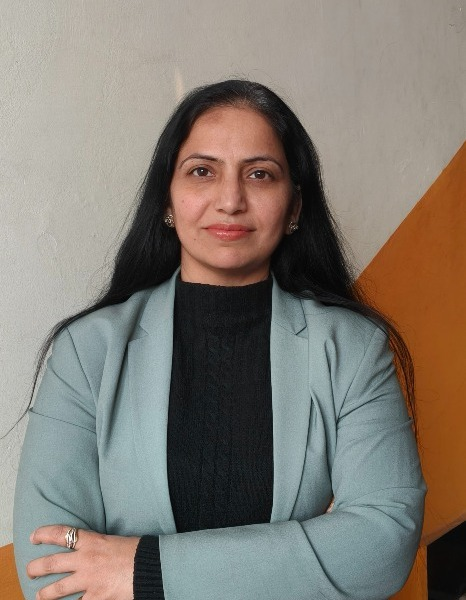
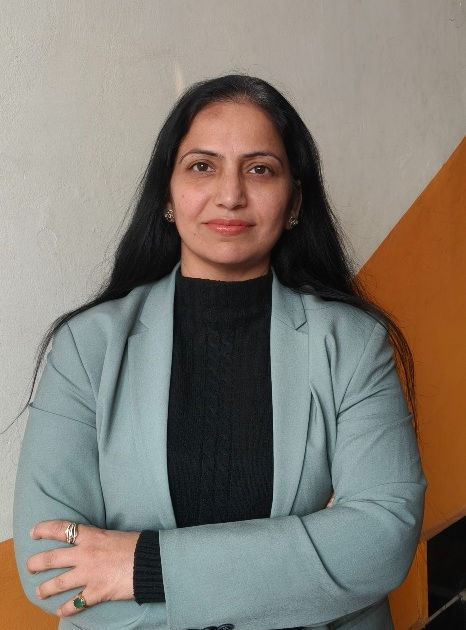
feat(contact): simplify header to clean title and display high-res portrait mentor cards with mentorship focus

diff --git a/components/mentors/MentorCard.tsx b/components/mentors/MentorCard.tsx
@@ -10,25 +10,27 @@ interface MentorCardProps {
 
 export function MentorCard({ mentor }: MentorCardProps) {
   return (
-    <article className="group bg-white rounded-3xl border border-[#EDE7EE] overflow-hidden flex flex-col h-full shadow-xs hover:shadow-xl hover:shadow-[rgba(155,112,199,0.12)] hover:border-[#C9A5E8]/60 transition-all duration-300 hover:-translate-y-1">
-      {/* Compact Image Container */}
-      <div className="relative h-48 sm:h-52 w-full overflow-hidden bg-[#FCF8FB]">
+    <article className="group bg-white rounded-3xl border border-[#EDE7EE] overflow-hidden flex flex-col h-full shadow-sm hover:shadow-xl hover:shadow-[rgba(155,112,199,0.14)] hover:border-[#C9A5E8]/70 transition-all duration-300 hover:-translate-y-1">
+      {/* Prominent Portrait Image Container — Matching High-Quality Editorial Style */}
+      <div className="relative aspect-[4/5] w-full overflow-hidden bg-[#FCF8FB]">
         <Image
           src={mentor.image}
           alt={`${mentor.name} — ${mentor.title}`}
           fill
-          sizes="(max-width: 640px) 100vw, (max-width: 1024px) 50vw, 400px"
+          priority
+          sizes="(max-width: 640px) 100vw, (max-width: 1024px) 50vw, 450px"
           className="object-cover object-top transition-transform duration-700 ease-out group-hover:scale-105"
         />
-        {/* Soft bottom vignette */}
+
+        {/* Soft bottom vignette gradient for contrast */}
         <div
-          className="absolute inset-0 bg-gradient-to-t from-black/45 via-transparent to-transparent opacity-60 group-hover:opacity-40 transition-opacity"
+          className="absolute inset-0 bg-gradient-to-t from-black/60 via-black/10 to-transparent pointer-events-none"
           aria-hidden="true"
         />
 
         {/* Experience Pill Badge */}
         <div className="absolute top-3.5 left-3.5 z-10">
-          <span className="inline-flex items-center gap-1.5 px-2.5 py-0.5 rounded-full text-[11px] font-sans font-semibold bg-white/95 backdrop-blur-md text-[#6E3587] border border-[#EDE7EE] shadow-2xs">
+          <span className="inline-flex items-center gap-1.5 px-3 py-1 rounded-full text-xs font-sans font-semibold bg-white/95 backdrop-blur-md text-[#25222A] border border-[#EDE7EE] shadow-sm">
             <span className="w-1.5 h-1.5 rounded-full bg-[#9B70C7]" aria-hidden="true" />
             {mentor.experience}
           </span>
@@ -37,28 +39,38 @@ export function MentorCard({ mentor }: MentorCardProps) {
         {/* Role Pill Badge */}
         {mentor.isFounder ? (
           <div className="absolute top-3.5 right-3.5 z-10">
-            <span className="inline-flex items-center px-2.5 py-0.5 rounded-full text-[11px] font-sans font-semibold bg-[#9B70C7] text-white shadow-2xs">
+            <span className="inline-flex items-center px-3 py-1 rounded-full text-xs font-sans font-semibold bg-[#9B70C7] text-white shadow-sm">
               Founder &amp; Lead Coach
             </span>
           </div>
         ) : (
           mentor.affiliation && (
             <div className="absolute top-3.5 right-3.5 z-10">
-              <span className="inline-flex items-center px-2.5 py-0.5 rounded-full text-[11px] font-sans font-semibold bg-[#FBE8F0] text-[#C4637A] border border-[#E99AB8]/40 shadow-2xs">
+              <span className="inline-flex items-center px-3 py-1 rounded-full text-xs font-sans font-semibold bg-white/95 backdrop-blur-md text-[#7F55A8] border border-[#EDE7EE] shadow-sm">
                 {mentor.affiliation.includes('LPU') ? 'LPU Faculty & COD' : mentor.affiliation}
               </span>
             </div>
           )
         )}
+
+        {/* Floating Mentorship Focus Card at Bottom of Photo — Exactly Matching User Reference */}
+        <div className="absolute bottom-3.5 left-3.5 right-3.5 z-20 bg-white/95 backdrop-blur-md rounded-2xl p-3.5 sm:p-4 shadow-lg border border-white/70">
+          <p className="font-serif italic text-xs text-[#9B70C7] mb-0.5">
+            Mentorship Focus
+          </p>
+          <p className="font-sans font-semibold text-xs sm:text-sm text-[#25222A] leading-snug">
+            {mentor.mentorshipFocus || mentor.expertise[0]}
+          </p>
+        </div>
       </div>
 
-      {/* Card Content — Compact & Refined */}
+      {/* Card Content & Action Area */}
       <div className="p-5 sm:p-6 flex-1 flex flex-col justify-between">
         <div>
           {/* Mentor Name */}
-          <h3 className="font-serif text-lg sm:text-xl font-semibold text-[#25222A] leading-snug group-hover:text-[#9B70C7] transition-colors mb-1">
+          <h2 className="font-serif text-xl sm:text-2xl font-semibold text-[#25222A] leading-snug group-hover:text-[#9B70C7] transition-colors mb-1">
             {mentor.name}
-          </h3>
+          </h2>
 
           {/* Professional Title */}
           <p className="font-sans text-xs sm:text-[13px] font-medium text-[#9B70C7] mb-2 leading-tight">
@@ -67,8 +79,8 @@ export function MentorCard({ mentor }: MentorCardProps) {
 
           {/* Location / Affiliation metadata */}
           {mentor.location && (
-            <p className="font-sans text-[11px] text-[#6E6872]/80 mb-3 flex items-center gap-1">
-              <svg width="12" height="12" fill="none" viewBox="0 0 24 24" stroke="currentColor" strokeWidth="2" aria-hidden="true">
+            <p className="font-sans text-[11px] sm:text-xs text-[#6E6872] mb-3 flex items-center gap-1.5">
+              <svg width="13" height="13" fill="none" viewBox="0 0 24 24" stroke="currentColor" strokeWidth="2" aria-hidden="true" className="shrink-0 text-[#9B70C7]">
                 <path strokeLinecap="round" strokeLinejoin="round" d="M15 10.5a3 3 0 11-6 0 3 3 0 016 0z" />
                 <path strokeLinecap="round" strokeLinejoin="round" d="M19.5 10.5c0 7.142-7.5 11.25-7.5 11.25S4.5 17.642 4.5 10.5a7.5 7.5 0 1115 0z" />
               </svg>
@@ -86,32 +98,32 @@ export function MentorCard({ mentor }: MentorCardProps) {
             {mentor.expertise.slice(0, 3).map((item) => (
               <span
                 key={item}
-                className="font-sans text-[11px] font-medium px-2 py-0.5 rounded-full bg-[#EEE7FA]/80 text-[#7F55A8] border border-[#C9A5E8]/30"
+                className="font-sans text-[11px] font-medium px-2.5 py-0.5 rounded-full bg-[#EEE7FA]/80 text-[#7F55A8] border border-[#C9A5E8]/30"
               >
                 {item}
               </span>
             ))}
             {mentor.expertise.length > 3 && (
-              <span className="font-sans text-[10px] font-medium px-1.5 py-0.5 rounded-full bg-[#FBE8F0] text-[#C4637A]">
-                +{mentor.expertise.length - 3}
+              <span className="font-sans text-[10px] font-medium px-2 py-0.5 rounded-full bg-[#FBE8F0] text-[#C4637A]">
+                +{mentor.expertise.length - 3} more
               </span>
             )}
           </div>
         </div>
 
         {/* Footer Actions */}
-        <div className="pt-3.5 border-t border-[#EDE7EE] flex items-center gap-2.5">
+        <div className="pt-4 border-t border-[#EDE7EE] flex items-center gap-2.5">
           <Link
             href={`/mentors/${mentor.slug}`}
             target="_blank"
             rel="noopener noreferrer"
-            className="flex-1 py-2.5 px-3.5 rounded-xl bg-[#9B70C7] hover:bg-[#865CB5] active:scale-[0.99] text-white font-sans text-xs sm:text-sm font-semibold text-center shadow-xs hover:shadow-md hover:shadow-[#9B70C7]/20 transition-all duration-200 flex items-center justify-center gap-1.5 group/btn"
+            className="flex-1 py-3 px-4 rounded-xl bg-[#9B70C7] hover:bg-[#865CB5] active:scale-[0.99] text-white font-sans text-xs sm:text-sm font-semibold text-center shadow-xs hover:shadow-md hover:shadow-[#9B70C7]/20 transition-all duration-200 flex items-center justify-center gap-1.5 group/btn"
             aria-label={`Book appointment with ${mentor.name} (opens in a new tab)`}
           >
             <span>Book Appointment</span>
             <svg
-              width="13"
-              height="13"
+              width="14"
+              height="14"
               fill="none"
               viewBox="0 0 24 24"
               stroke="currentColor"
@@ -127,7 +139,7 @@ export function MentorCard({ mentor }: MentorCardProps) {
             href={`/mentors/${mentor.slug}`}
             target="_blank"
             rel="noopener noreferrer"
-            className="py-2.5 px-3 rounded-xl border border-[#EDE7EE] hover:border-[#C9A5E8] hover:bg-[#FCF8FB] text-[#25222A] hover:text-[#9B70C7] font-sans text-xs font-medium text-center transition-colors shrink-0"
+            className="py-3 px-3.5 rounded-xl border border-[#EDE7EE] hover:border-[#C9A5E8] hover:bg-[#FCF8FB] text-[#25222A] hover:text-[#9B70C7] font-sans text-xs font-medium text-center transition-colors shrink-0"
             aria-label={`View ${mentor.name}'s details in a new tab`}
           >
             View Profile

diff --git a/app/contact/page.tsx b/app/contact/page.tsx
@@ -113,83 +113,22 @@ export default function ContactPage() {
       />
 
       {/* ============================================================ */}
-      {/* SECTION 1 — Hero / Introduction: Meet Our Expert Mentors */}
+      {/* SECTION 1 — Meet Our Expert Mentors */}
       {/* ============================================================ */}
       <section
-        className="py-16 sm:py-20 relative overflow-hidden"
-        style={{ background: 'linear-gradient(135deg, #FCF8FB 0%, #F5EDF9 100%)' }}
+        id="mentors"
+        className="pt-12 sm:pt-16 pb-16 sm:pb-20 relative overflow-hidden bg-gradient-to-b from-[#FCF8FB] via-white to-white scroll-mt-24"
       >
-        {/* Soft background glow shapes */}
-        <div
-          className="absolute -top-32 -left-32 w-96 h-96 rounded-full opacity-40 pointer-events-none"
-          style={{ background: 'radial-gradient(circle, #FBE8F0 0%, transparent 70%)' }}
-          aria-hidden="true"
-        />
-        <div
-          className="absolute -bottom-32 -right-32 w-96 h-96 rounded-full opacity-40 pointer-events-none"
-          style={{ background: 'radial-gradient(circle, #EEE7FA 0%, transparent 70%)' }}
-          aria-hidden="true"
-        />
-
-        <Container className="relative z-10 text-center max-w-4xl mx-auto">
-          <AnimatedSection direction="down" delay={50}>
-            <div className="flex items-center justify-center gap-3 mb-4">
-              <div className="h-[1px] w-8 sm:w-12 bg-gradient-to-r from-transparent to-[#C9A5E8]" aria-hidden="true" />
-              <p className="font-sans text-xs font-semibold tracking-[0.2em] text-[#9B70C7] uppercase">
-                Expert Guidance &amp; Transformation
-              </p>
-              <div className="h-[1px] w-8 sm:w-12 bg-gradient-to-l from-transparent to-[#C9A5E8]" aria-hidden="true" />
-            </div>
-
-            <h1 className="font-serif text-3xl sm:text-4xl md:text-5xl lg:text-6xl font-semibold text-[#25222A] leading-[1.15] mb-5">
+        <Container className="max-w-5xl mx-auto">
+          {/* Clean, Non-Buzzing Title */}
+          <AnimatedSection direction="down" delay={50} className="text-center mb-10 sm:mb-14">
+            <h1 className="font-serif text-3xl sm:text-4xl md:text-5xl font-semibold text-[#25222A] leading-tight">
               Meet Our <span className="text-[#9B70C7] italic">Expert Mentors</span>
             </h1>
-
-            <p className="font-sans text-base sm:text-lg text-[#6E6872] leading-relaxed max-w-2xl mx-auto mb-8">
-              Connect with experienced mentors who understand your journey, guide your growth, and help you achieve your goals. Explore profiles below and reserve your dedicated session.
-            </p>
-
-            <div className="flex flex-wrap items-center justify-center gap-4 text-xs font-sans text-[#6E6872]">
-              <span className="inline-flex items-center gap-1.5 px-3 py-1.5 rounded-full bg-white/90 border border-[#EDE7EE] shadow-2xs">
-                <span className="w-1.5 h-1.5 rounded-full bg-[#9B70C7]" aria-hidden="true" />
-                1-on-1 Personalized Mentoring
-              </span>
-              <span className="inline-flex items-center gap-1.5 px-3 py-1.5 rounded-full bg-white/90 border border-[#EDE7EE] shadow-2xs">
-                <span className="w-1.5 h-1.5 rounded-full bg-[#E99AB8]" aria-hidden="true" />
-                Virtual &amp; In-Person Formats
-              </span>
-              <span className="inline-flex items-center gap-1.5 px-3 py-1.5 rounded-full bg-white/90 border border-[#EDE7EE] shadow-2xs">
-                <span className="w-1.5 h-1.5 rounded-full bg-[#9B70C7]" aria-hidden="true" />
-                Confidential &amp; Evidence-Informed
-              </span>
-            </div>
-          </AnimatedSection>
-        </Container>
-      </section>
-
-      {/* ============================================================ */}
-      {/* SECTION 2 — Mentor Profiles Grid */}
-      {/* ============================================================ */}
-      <section id="mentors" className="py-16 sm:py-20 bg-white scroll-mt-24">
-        <Container>
-          <AnimatedSection direction="up" delay={100} className="mb-12">
-            <div className="flex flex-col sm:flex-row sm:items-end justify-between gap-4">
-              <div>
-                <h2 className="font-serif text-2xl sm:text-3xl md:text-4xl font-semibold text-[#25222A] leading-tight mb-2">
-                  Select Your Mentor &amp; Book an Appointment
-                </h2>
-                <p className="font-sans text-sm sm:text-base text-[#6E6872]">
-                  Click on any mentor to review their full credentials and book your preferred date and time slot in a new tab.
-                </p>
-              </div>
-              <span className="text-xs font-sans font-medium text-[#9B70C7] bg-[#EEE7FA] px-3.5 py-1.5 rounded-full self-start sm:self-auto border border-[#C9A5E8]/40">
-                2 Expert Mentors Available
-              </span>
-            </div>
           </AnimatedSection>
 
-          {/* Mentors Responsive Grid — Centered & Scaled Appropriately for 2 Profiles */}
-          <div className="grid grid-cols-1 md:grid-cols-2 gap-6 sm:gap-8 max-w-3xl lg:max-w-4xl mx-auto">
+          {/* Mentors Responsive Grid — 2 Profiles */}
+          <div className="grid grid-cols-1 md:grid-cols-2 gap-8 max-w-3xl lg:max-w-4xl mx-auto">
             {mentors.map((mentor, index) => (
               <AnimatedSection key={mentor.id} direction="up" delay={100 + index * 80}>
                 <MentorCard mentor={mentor} />

diff --git a/lib/data/mentors.ts b/lib/data/mentors.ts
@@ -7,6 +7,7 @@ export interface Mentor {
   location?: string;
   experience: string;
   image: string;
+  mentorshipFocus?: string;
   shortBio: string;
   fullBio: string[];
   expertise: string[];
@@ -26,6 +27,7 @@ export const mentors: Mentor[] = [
     location: 'Phagwara, Punjab, India',
     experience: '15+ Years Experience',
     image: '/coach-portrait.jpg',
+    mentorshipFocus: 'Life Transformation, Master NLP & Human Capital Growth',
     isFounder: true,
     shortBio:
       'Founder and Lead Coach at Shivi specializing in deep personal transformation, certified Neuro-Linguistic Programming (NLP), emotional intelligence, and human capital growth.',
@@ -71,6 +73,7 @@ export const mentors: Mentor[] = [
     location: 'Ludhiana, Punjab, India',
     experience: '15+ Years Experience',
     image: '/priyanka-chhibber.jpg',
+    mentorshipFocus: 'Human Resource Management & SHRM Certified HR Strategies',
     isFounder: false,
     shortBio:
       'Professor and Coordinator of Human Resource Management at Lovely Professional University (LPU). SHRM-certified mentor specializing in strategic HR, organizational behavior, and leadership.',

diff --git a/app/mentors/[slug]/page.tsx b/app/mentors/[slug]/page.tsx
@@ -166,9 +166,9 @@ export default async function MentorDetailPage({
                   {/* Floating pill badge */}
                   <div className="absolute bottom-4 left-4 right-4 z-20">
                     <div className="bg-white/95 backdrop-blur-md rounded-2xl p-3 sm:p-4 border border-[#EDE7EE] shadow-lg">
-                      <p className="font-serif text-xs italic text-[#C9A5E8] mb-0.5">Mentorship Focus</p>
-                      <p className="font-sans text-xs text-[#25222A] font-semibold leading-snug">
-                        {mentor.expertise[0]} &amp; {mentor.expertise[1]}
+                      <p className="font-serif text-xs italic text-[#9B70C7] mb-0.5">Mentorship Focus</p>
+                      <p className="font-sans text-xs sm:text-sm text-[#25222A] font-semibold leading-snug">
+                        {mentor.mentorshipFocus || `${mentor.expertise[0]} & ${mentor.expertise[1]}`}
                       </p>
                     </div>
                   </div>
